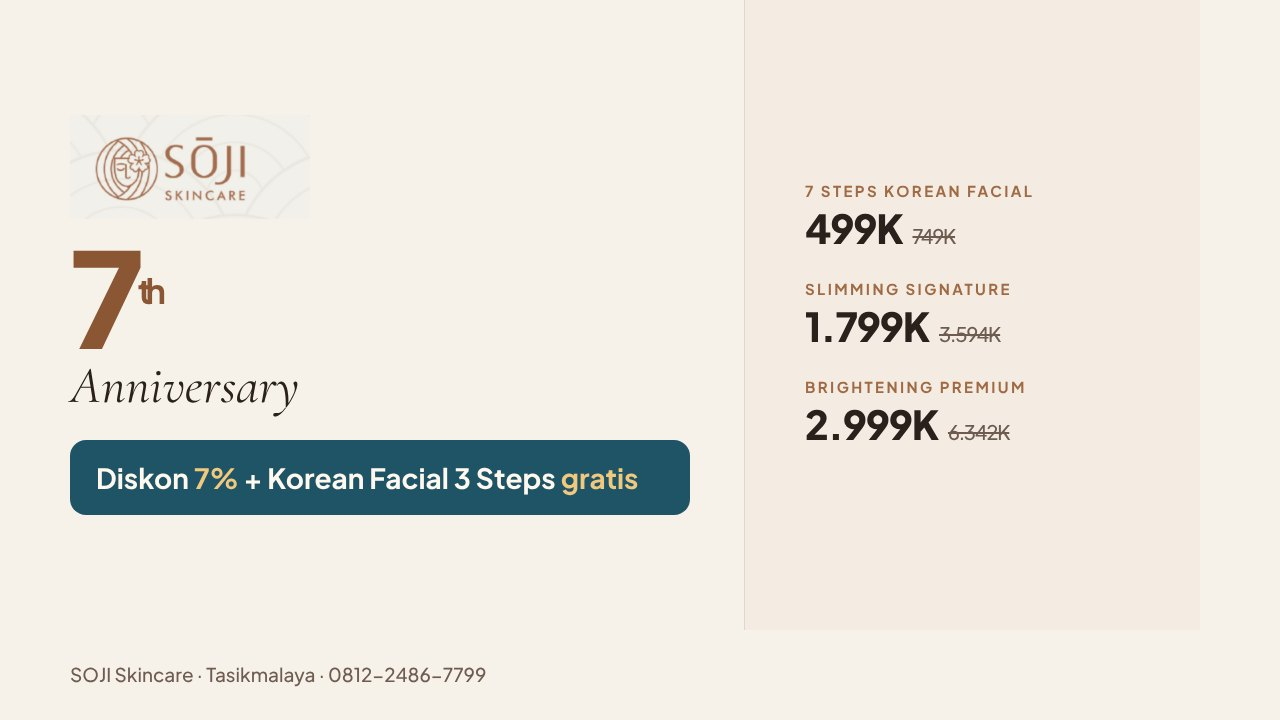
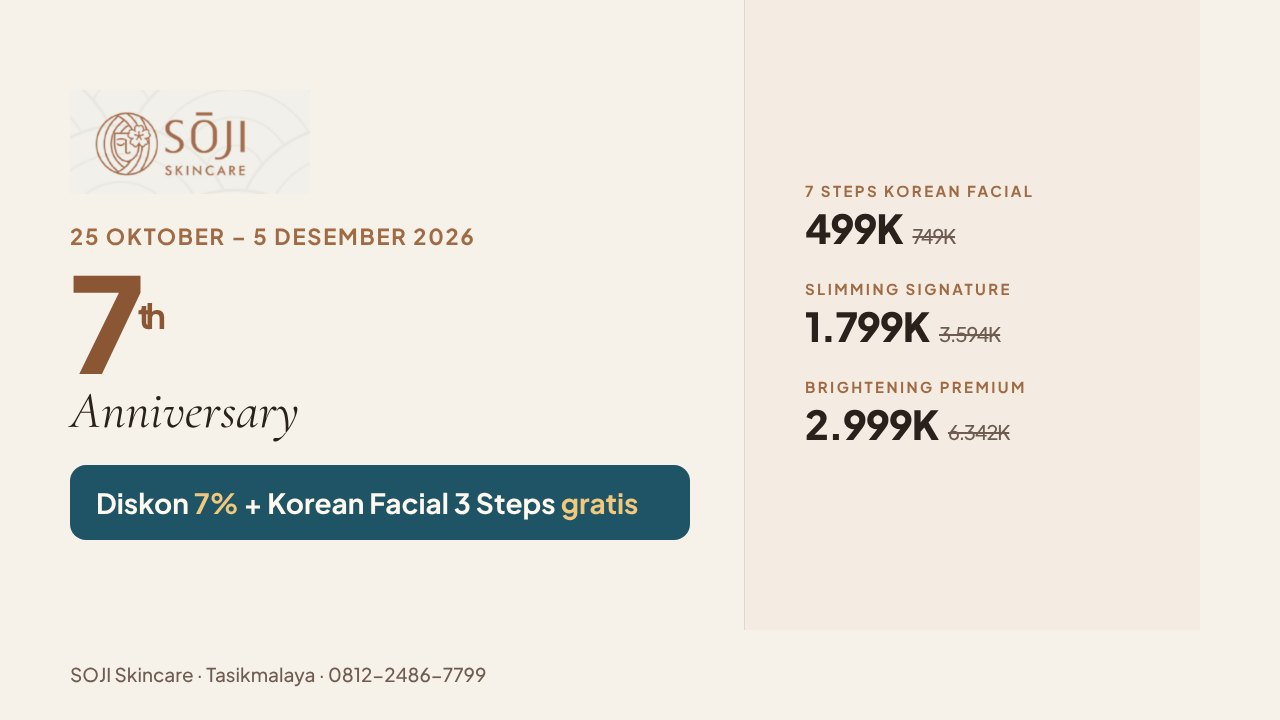
Tambah periode promo dan hitung mundur di halaman /promo
Periode berjalan 25 Oktober sampai 5 Desember 2026. Hero menampilkan pil
tanggal dengan sisa hari yang dihitung sendiri; lewat tanggal akhir teksnya
berganti jadi keterangan bahwa promo sudah berakhir. Tanpa JavaScript, tanggal
tetap terbaca.

Tanggal lengkap ikut ditulis di syarat promo, dan gambar preview link
diperbarui supaya periodenya kelihatan saat dibagikan di WhatsApp.

Claude-Session: https://claude.ai/code/session_01UwU96fEy7jDiBzDoJBkwiX

Changed region(s): [[0.0312, 0.3056, 0.5625, 0.7639], [0.0625, 0.1528, 0.2188, 0.275]]

diff --git a/promo/index.html b/promo/index.html
@@ -81,6 +81,12 @@ section{padding-block:34px}
 .anniv{font-family:var(--serif);font-size:clamp(1.6rem,7vw,2.3rem);font-style:italic;
        font-weight:400;margin-top:2px}
 .hero-note{font-size:.95rem;color:var(--ink-soft);margin-top:14px;max-width:34ch;margin-inline:auto}
+.period{display:inline-flex;flex-wrap:wrap;justify-content:center;align-items:center;
+        gap:6px 10px;margin-top:16px;background:var(--chip);border:1px solid var(--line);
+        border-radius:16px;padding:9px 16px;font-size:.84rem;font-weight:600;line-height:1.4}
+.period .dot{width:4px;height:4px;border-radius:99px;background:var(--mocha);flex:none}
+.period .left{color:var(--coral);font-variant-numeric:tabular-nums}
+.period .left.ended{color:var(--ink-soft)}
 .confetti{display:flex;justify-content:center;gap:7px;margin-top:20px}
 .confetti i{width:30px;height:5px;border-radius:99px;display:block}
 
@@ -193,6 +199,11 @@ section{padding-block:34px}
     <div class="seven">7<sup>th</sup></div>
     <div class="anniv">Anniversary</div>
     <p class="hero-note">Tujuh tahun merawat kulit orang Tasik. Kami rayakan dengan harga yang jarang kami buka.</p>
+    <p class="period">
+      <span class="dates">25 Okt &ndash; 5 Des 2026</span>
+      <span class="dot" aria-hidden="true"></span>
+      <span class="left" id="sisa">periode perayaan</span>
+    </p>
     <div class="confetti" aria-hidden="true">
       <i style="background:var(--coral)"></i><i style="background:var(--gold)"></i>
       <i style="background:var(--teal)"></i><i style="background:var(--blush)"></i>
@@ -378,7 +389,7 @@ section{padding-block:34px}
     <p>Ms. Peisilia Alodia &mdash; SOJI Korean Aesthetic &amp; Skinmaster Coach</p>
   </div>
 
-  <p class="terms">Promo 7th Anniversary, slot terbatas dan tidak bisa digabung dengan promo lain. Booking dulu lewat WhatsApp untuk mengamankan jadwalmu.</p>
+  <p class="terms">Promo 7th Anniversary berlaku 25 Oktober sampai 5 Desember 2026. Slot terbatas dan tidak bisa digabung dengan promo lain. Booking dulu lewat WhatsApp untuk mengamankan jadwalmu.</p>
 
   <a class="backlink" href="/">&larr; Lihat cerita 7 tahun SOJI</a>
 </div>
@@ -393,6 +404,31 @@ section{padding-block:34px}
 </div>
 
 <script>
+/* Hitung mundur sampai promo berakhir: 5 Desember 2026, pukul 23.59 WIB. */
+(function () {
+  var akhir = new Date("2026-12-05T23:59:59+07:00").getTime();
+  var el = document.getElementById("sisa");
+  if (!el) return;
+
+  function tulis() {
+    var sisa = akhir - Date.now();
+    if (sisa <= 0) {
+      el.textContent = "periode promo sudah berakhir";
+      el.classList.add("ended");
+      return false;
+    }
+    var jam = Math.floor(sisa / 3600000);
+    if (jam < 48) {
+      el.textContent = "sisa " + jam + " jam terakhir";
+    } else {
+      el.textContent = "sisa " + Math.ceil(jam / 24) + " hari";
+    }
+    return true;
+  }
+
+  if (tulis()) setInterval(tulis, 60000);
+})();
+
 document.querySelectorAll(".copy").forEach(function (btn) {
   btn.addEventListener("click", function () {
     var text = btn.dataset.copy, original = btn.textContent;

diff --git a/README.md b/README.md
@@ -55,11 +55,23 @@ Halaman ini **tidak** mengambil isi dari `content.js` — semua teks dan harga a
 langsung di dalam `promo/index.html`, supaya promo bisa diganti tanpa menyentuh
 situs utama. Cari bagian `<article class="promo">` untuk tiap paket.
 
+### Periode promo
+
+Berjalan **25 Oktober – 5 Desember 2026**. Halaman menampilkan hitung mundur yang
+berjalan sendiri, dan otomatis berganti jadi *"periode promo sudah berakhir"*
+lewat tanggal itu.
+
+Kalau periodenya diperpanjang, ada **tiga** tempat yang perlu diubah di
+`promo/index.html`:
+
+1. `<span class="dates">` di hero — tanggal singkat
+2. `new Date("2026-12-05T23:59:59+07:00")` di blok `<script>` — batas hitung mundur
+3. paragraf `.terms` di bagian bawah — tanggal lengkap
+
 ### Yang masih perlu diisi
 
 | Yang perlu diisi | Letaknya |
 |---|---|
-| Tanggal berakhirnya promo | paragraf `.terms` di bagian paling bawah |
 | URL absolut gambar preview | `<meta property="og:image">` di `<head>`, tandanya `⬅ GANTI` |
 
 > Gambar preview link (`assets/img/og-promo.jpg`) adalah yang muncul saat link
